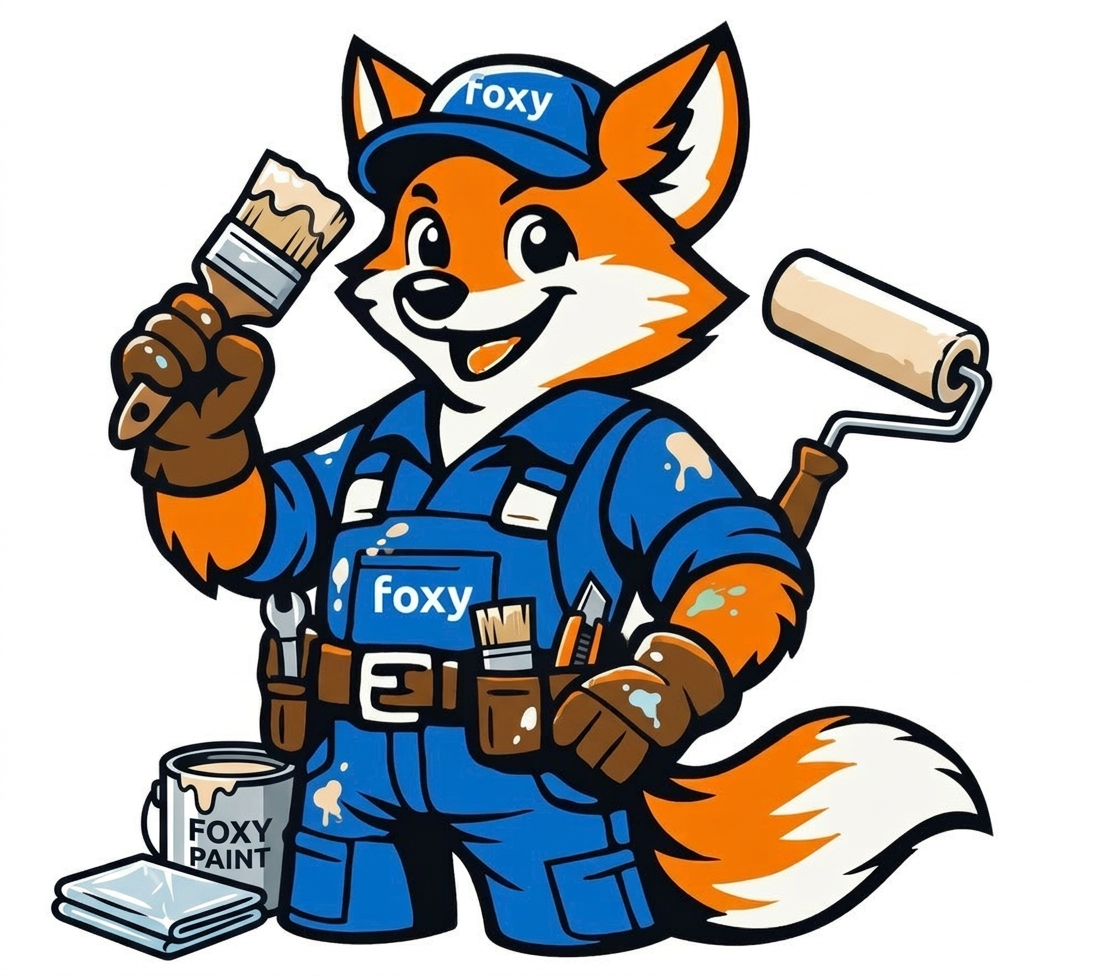
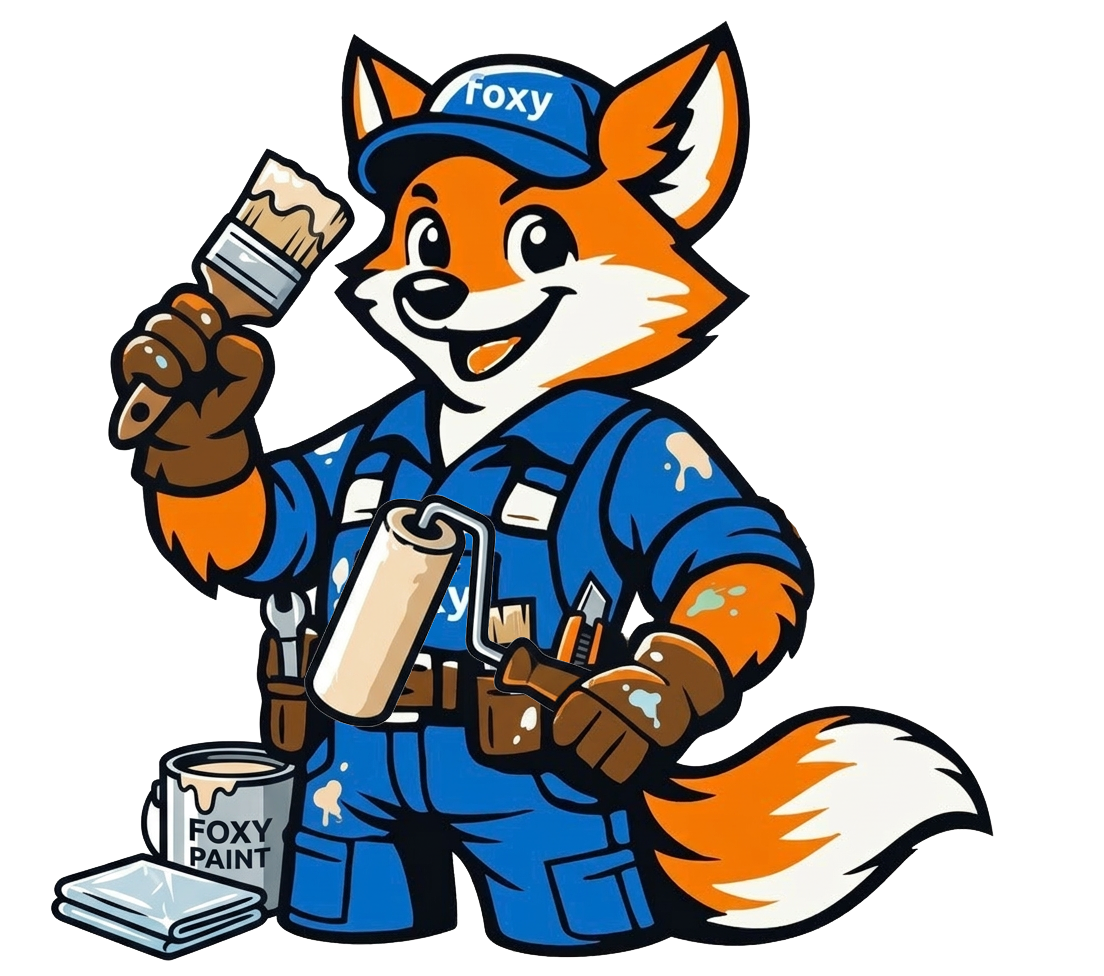
feat: replace all category images with new Firefly/Foxy illustrations

Changed region(s): [[0.6775, 0.2459, 0.9239, 0.5533], [0.2772, 0.4918, 0.5236, 0.7377]]

diff --git a/src/app/page.tsx b/src/app/page.tsx
@@ -9,7 +9,7 @@ const FEATURED_CATEGORIES = [
   { slugKey: "reinigung", image: "/categories/cleaner.png" },
   { slugKey: "garten-landschaft", image: "/categories/gaertner.png" },
   { slugKey: "malerei-lackierung", image: "/categories/maler.png" },
-  { slugKey: "montage-aufbau", image: "/categories/montage.jpg" },
+  { slugKey: "montage-aufbau", image: "/categories/montage.png" },
   { slugKey: "elektrik", image: "/categories/elektrik.png" },
   { slugKey: "sanitaer-heizung", image: "/categories/sanitaer.png" },
   { slugKey: "dach-fassade", image: "/categories/dach.png" },

diff --git a/src/app/(auth)/registrieren/page.tsx b/src/app/(auth)/registrieren/page.tsx
@@ -25,7 +25,7 @@ const CATEGORY_IMAGES: Record<string, string> = {
   reinigung: "/categories/cleaner.png",
   "garten-landschaft": "/categories/gaertner.png",
   "malerei-lackierung": "/categories/maler.png",
-  "montage-aufbau": "/categories/montage.jpg",
+  "montage-aufbau": "/categories/montage.png",
   elektrik: "/categories/elektrik.png",
   "sanitaer-heizung": "/categories/sanitaer.png",
   "dach-fassade": "/categories/dach.png",

diff --git a/src/app/(client)/dashboard/auftraege/neu/page.tsx b/src/app/(client)/dashboard/auftraege/neu/page.tsx
@@ -50,7 +50,7 @@ const CATEGORY_IMAGES: Record<string, string> = {
   reinigung: "/categories/cleaner.png",
   "garten-landschaft": "/categories/gaertner.png",
   "malerei-lackierung": "/categories/maler.png",
-  "montage-aufbau": "/categories/montage.jpg",
+  "montage-aufbau": "/categories/montage.png",
   elektrik: "/categories/elektrik.png",
   "sanitaer-heizung": "/categories/sanitaer.png",
   "dach-fassade": "/categories/dach.png",
